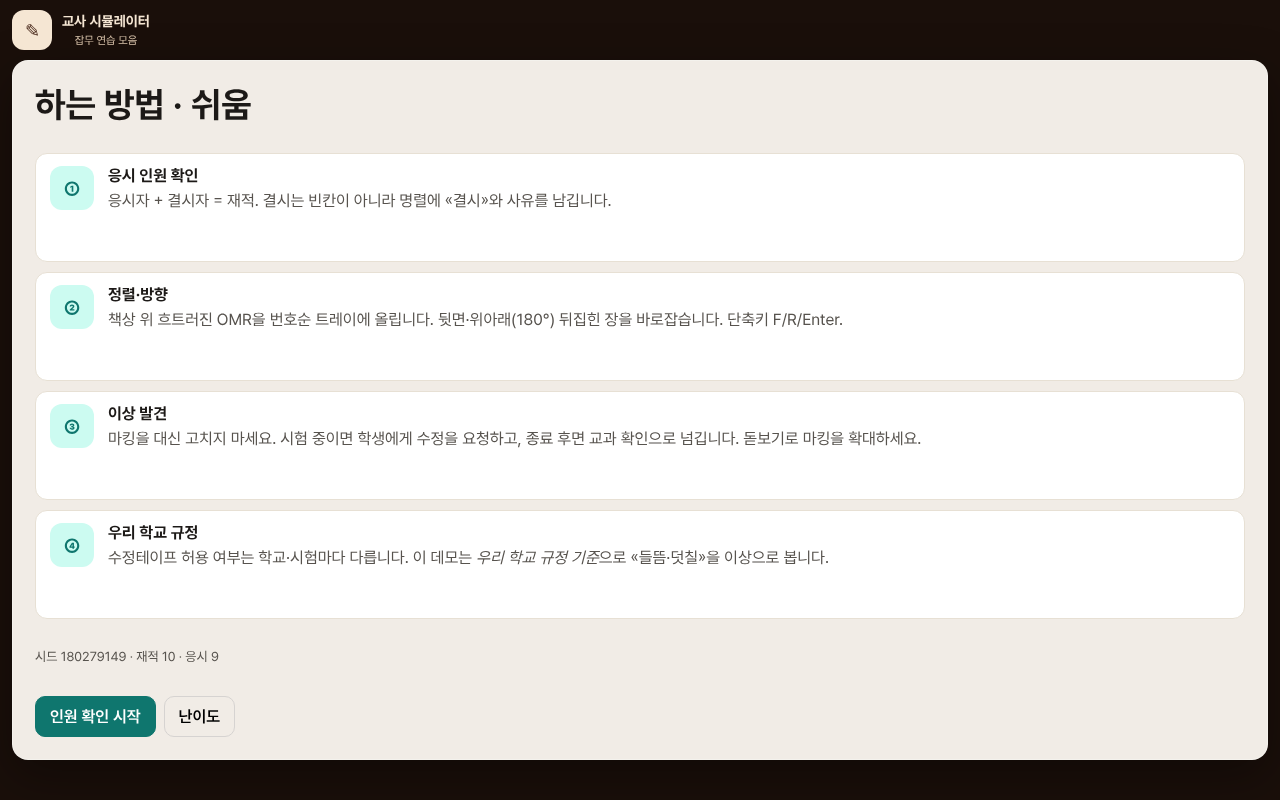
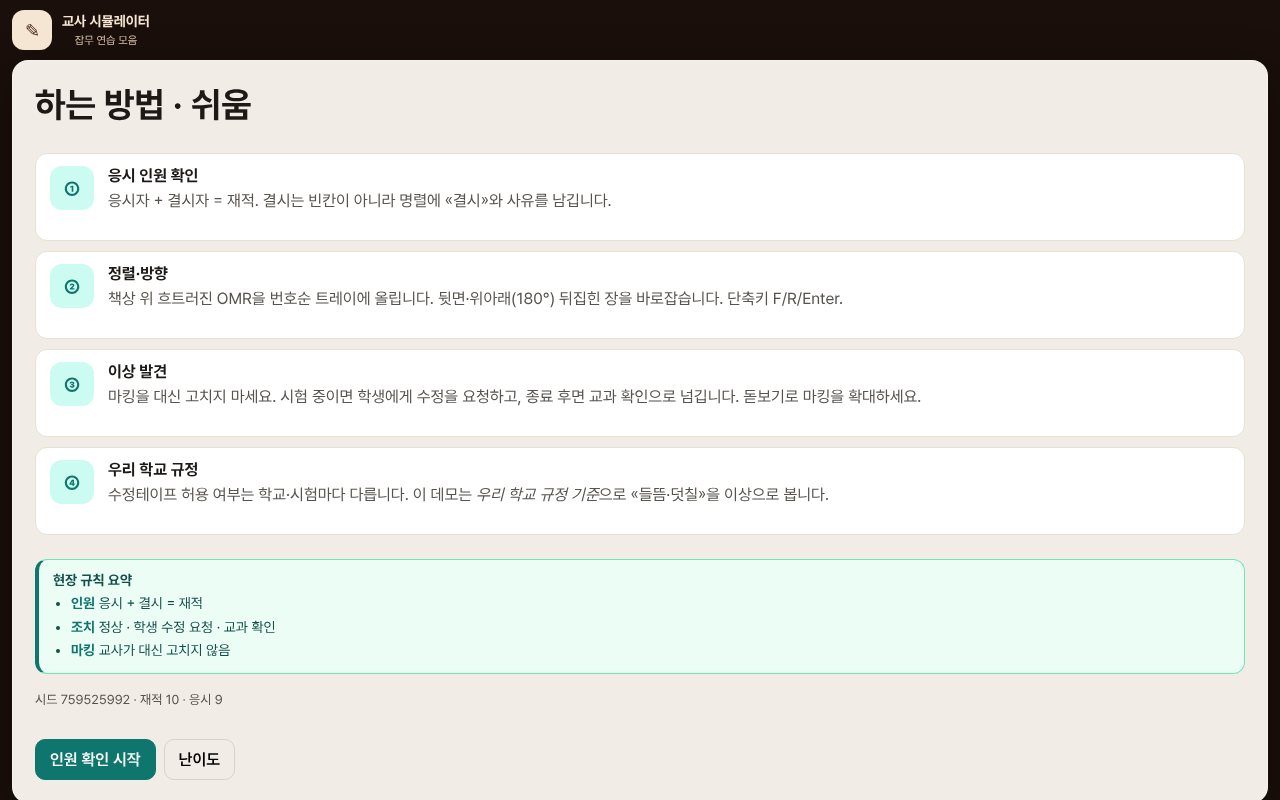
Round 0037: field-rules callout on howto screen
Surface 응시+결시=재적 and the three dispositions in a
dedicated green summary before the run starts.

Changed region(s): [[0.0, 0.2812, 1.0, 1.0]]

diff --git a/src/main.ts b/src/main.ts
@@ -325,6 +325,14 @@ function renderHowto() {
     <li><span class="howto-ico" aria-hidden="true">③</span><div><b>이상 발견</b><p>마킹을 대신 고치지 마세요. 시험 중이면 학생에게 수정을 요청하고, 종료 후면 교과 확인으로 넘깁니다. 돋보기로 마킹을 확대하세요.</p></div></li>
     <li><span class="howto-ico" aria-hidden="true">④</span><div><b>우리 학교 규정</b><p>수정테이프 허용 여부는 학교·시험마다 다릅니다. 이 데모는 <em>우리 학교 규정 기준</em>으로 «들뜸·덧칠»을 이상으로 봅니다.</p></div></li>
   </ol>
+  <aside class="field-rules" aria-label="현장 규칙">
+    <b>현장 규칙 요약</b>
+    <ul>
+      <li><strong>인원</strong> 응시 + 결시 = 재적</li>
+      <li><strong>조치</strong> 정상 · 학생 수정 요청 · 교과 확인</li>
+      <li><strong>마킹</strong> 교사가 대신 고치지 않음</li>
+    </ul>
+  </aside>
   <p class="side-note">시드 ${d.config.seed} · 재적 ${d.config.studentCount} · 응시 ${d.cards.length}</p>
   <div class="actions">
     <button class="btn primary" id="btn-go" type="button">인원 확인 시작</button>

diff --git a/src/style.css b/src/style.css
@@ -1270,3 +1270,18 @@ kbd {
   /* keep face flip, but avoid preserve-3d parent issues */
   transform-style: flat;
 }
+
+/* 0037 field-rules callout on howto */
+.field-rules {
+  background: #ecfdf5;
+  border: 1px solid #6ee7b7;
+  border-left: 4px solid #0f766e;
+  border-radius: 12px;
+  padding: 12px 14px;
+  margin: 8px 0 4px;
+  color: #134e4a;
+}
+.field-rules b { display: block; margin-bottom: 6px; font-size: 14px; }
+.field-rules ul { margin: 0; padding-left: 18px; display: grid; gap: 4px; }
+.field-rules li { font-size: 14px; line-height: 1.4; }
+.field-rules strong { color: #0f766e; }

diff --git a/docs/issues/0037-howto-field-rules.md b/docs/issues/0037-howto-field-rules.md
@@ -1,0 +1,10 @@
+# 0037 Howto field-rules callout
+
+## Critique
+Field rules (응시+결시=재적, dispositions) were buried in step copy.
+
+## Fix
+Green callout on howto: 인원 / 조치(정상·학생 수정 요청·교과 확인) / 마킹.
+
+## Verify
+e2e OK · viewport OK

diff --git a/docs/ROUNDLOG.md b/docs/ROUNDLOG.md
@@ -37,3 +37,6 @@
 
 ## Round 0036 (01:55 KST)
 - Fix pile card pointer hit-testing; harden e2e select
+
+## Round 0037 (02:09 KST)
+- Howto field-rules callout
